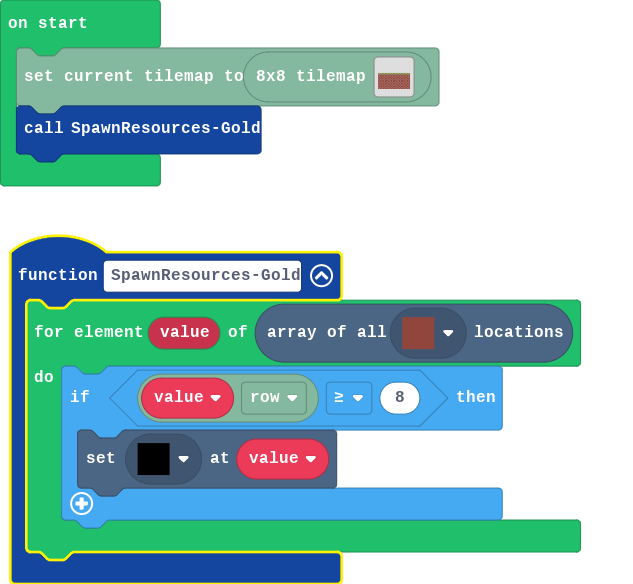
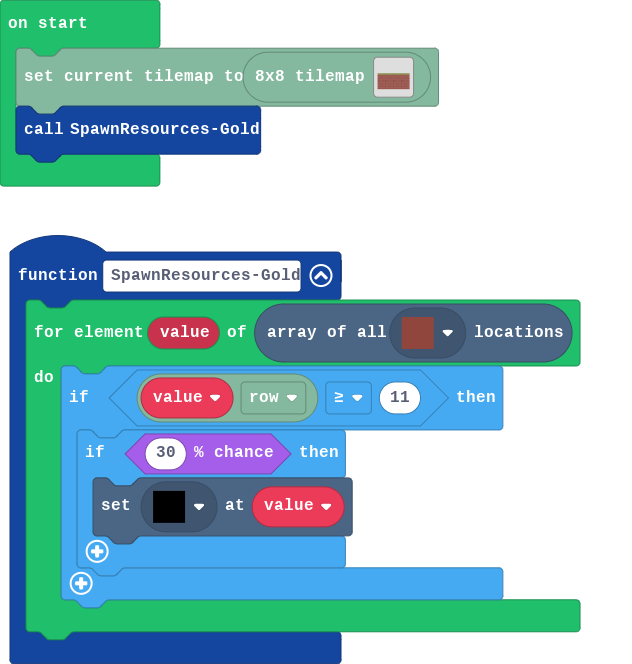
Update main.blocks, main.ts

diff --git a/main.ts b/main.ts
@@ -1,7 +1,9 @@
 function SpawnResourcesGold () {
     for (let value of tiles.getTilesByType(assets.tile`myTile0`)) {
-        if (tiles.locationXY(value, tiles.XY.row) >= 8) {
-            tiles.setTileAt(value, assets.tile`myTile2`)
+        if (tiles.locationXY(value, tiles.XY.row) >= 11) {
+            if (Math.percentChance(30)) {
+                tiles.setTileAt(value, assets.tile`myTile2`)
+            }
         }
     }
 }
